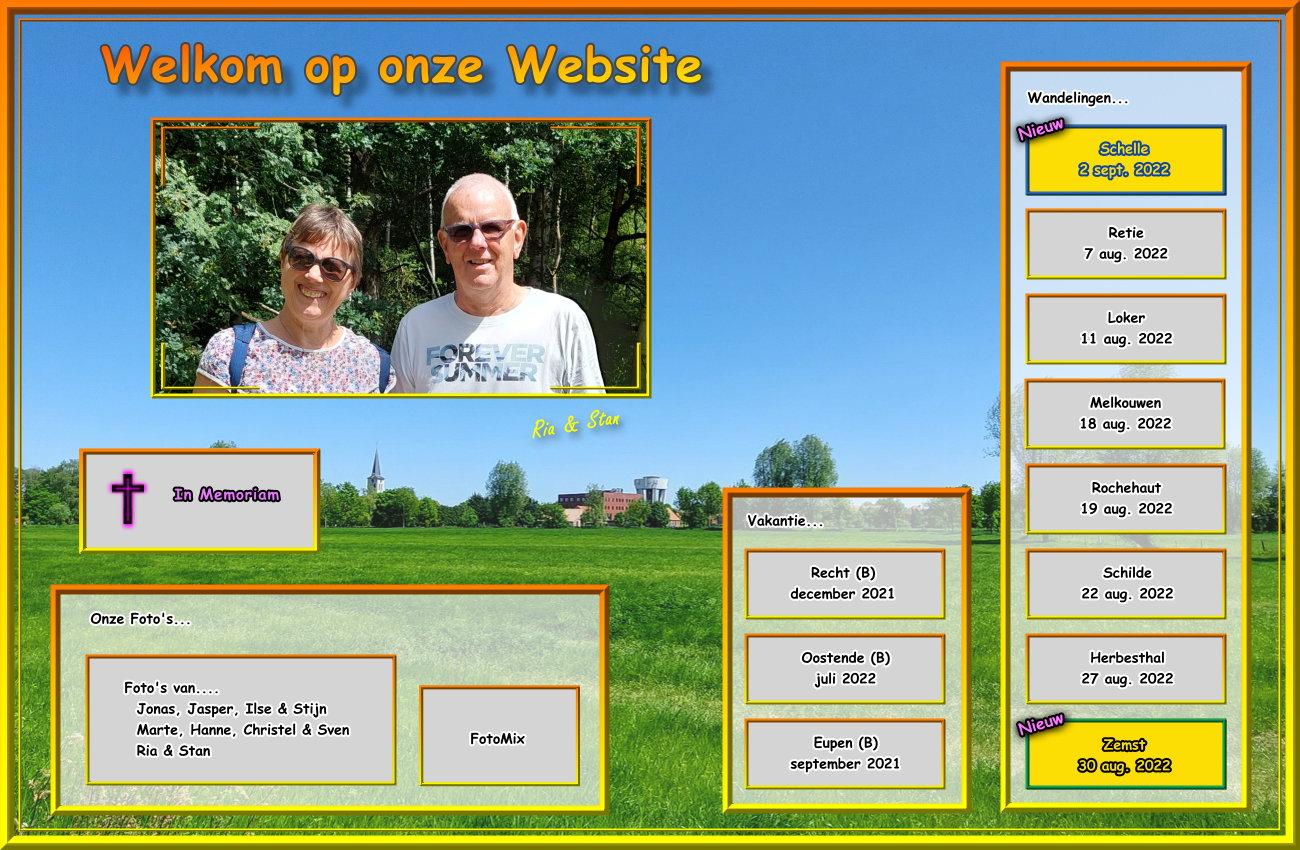
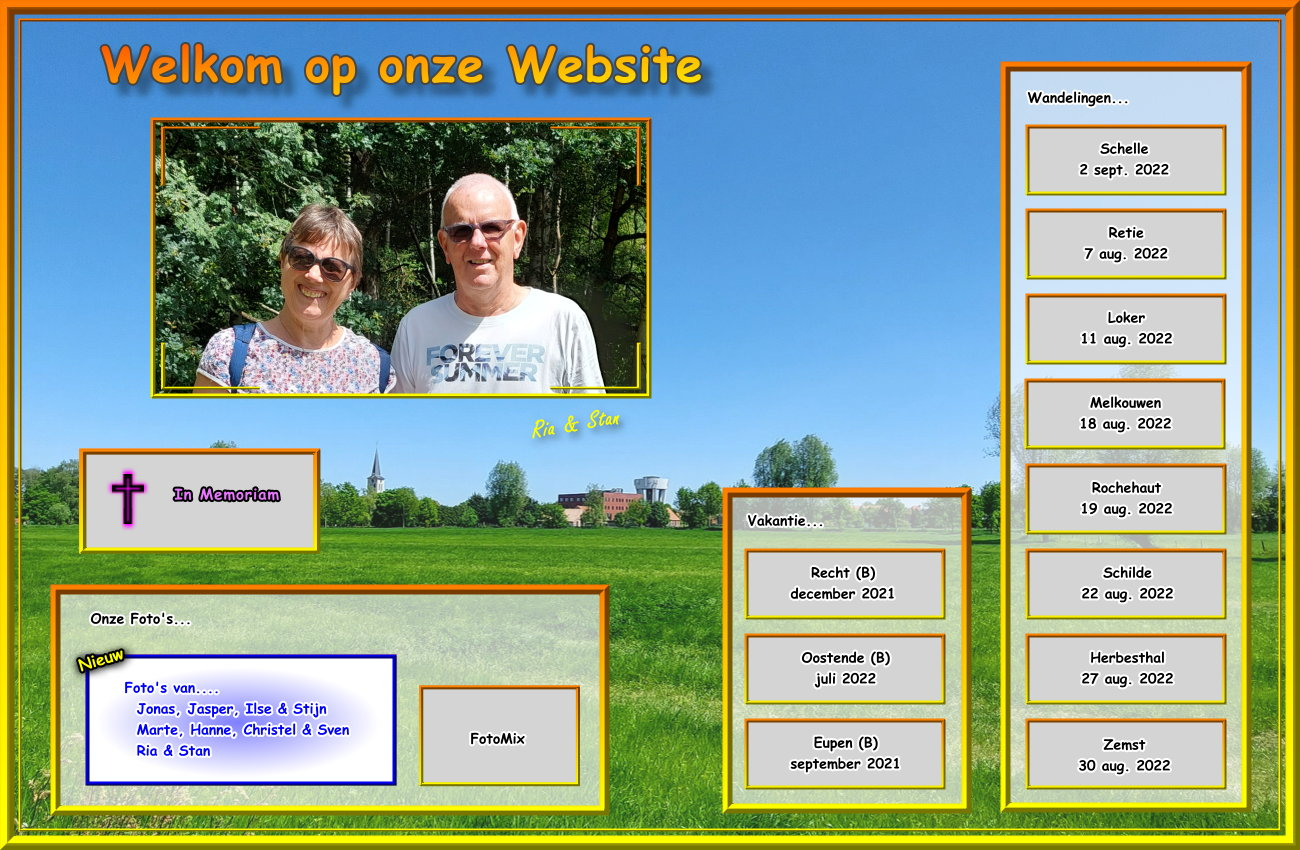
zee foto 190

Changed region(s): [[0.0308, 0.7647, 0.3077, 0.9482], [0.7692, 0.8259, 0.9538, 0.9482], [0.7692, 0.1224, 0.9538, 0.2447]]

diff --git a/_vti_cnf/familiefotos.htm b/_vti_cnf/familiefotos.htm
@@ -1,18 +1,18 @@
 vti_encoding:SR|utf8-nl
 vti_author:SR|PCKE\\Stan Claes
 vti_modifiedby:SR|PC-Home\\Stan
-vti_timelastmodified:TR|01 Jul 2022 07:34:53 -0000
+vti_timelastmodified:TR|13 Sep 2022 14:01:45 -0000
 vti_timecreated:TR|26 Dec 2007 19:02:56 -0000
 vti_title:SR|Familiefoto's
 vti_extenderversion:SR|6.0.2.5516
 vti_backlinkinfo:VX|familiefotos.htm claes-bollen.htm index.htm claes-faes.htm bernaerts-claes.htm fotomix.htm denis-claes.htm kerst.htm familiefotos_extra.htm keukenhof.htm ballon.htm
-vti_nexttolasttimemodified:TW|17 Apr 2022 08:14:12 -0000
-vti_cacheddtm:TX|01 Jul 2022 07:34:53 -0000
-vti_filesize:IR|8844
+vti_nexttolasttimemodified:TW|01 Jul 2022 07:34:53 -0000
+vti_cacheddtm:TX|13 Sep 2022 14:01:45 -0000
+vti_filesize:IR|8931
 vti_cachedtitle:SR|Familiefoto's
 vti_cachedbodystyle:SR|<body background="Fotomap/familiefotos/familiefotos_back.jpg" style="background-attachment: fixed" leftmargin="50" rightmargin="50">
-vti_cachedlinkinfo:VX|S|Fotomap/familiefotos/familiefotos_back.jpg H|index.htm H|fotomix.htm S|Fotomap/familiefotos/familiefotos_titel.png S|Fotomap/familiefotos/star.png S|Fotomap/familiefotos/ff_189.jpg S|Fotomap/familiefotos/star.png S|Fotomap/familiefotos/ff_188.jpg S|Fotomap/familiefotos/ff_187.jpg S|Fotomap/familiefotos/ff_186.jpg S|Fotomap/familiefotos/ff_185.jpg S|Fotomap/familiefotos/ff_184.jpg S|Fotomap/familiefotos/ff_183.jpg S|Fotomap/familiefotos/ff_182.jpg S|Fotomap/familiefotos/ff_181.jpg S|Fotomap/familiefotos/ff_180.jpg S|Fotomap/familiefotos/ff_179.jpg S|Fotomap/familiefotos/ff_178.jpg S|Fotomap/familiefotos/ff_177.jpg S|Fotomap/familiefotos/ff_176.gif S|Fotomap/familiefotos/ff_175.jpg S|Fotomap/familiefotos/ff_174.jpg S|Fotomap/familiefotos/ff_173.jpg S|Fotomap/familiefotos/ff_172.jpg S|Fotomap/familiefotos/ff_171.jpg S|Fotomap/familiefotos/ff_169.jpg S|Fotomap/familiefotos/ff_170.jpg S|Fotomap/familiefotos/ff_168.jpg S|Fotomap/familiefotos/ff_167.jpg S|Fotomap/familiefotos/ff_166.jpg S|Fotomap/familiefotos/ff_165.jpg S|Fotomap/familiefotos/ff_164.jpg S|Fotomap/familiefotos/ff_163.jpg S|Fotomap/familiefotos/ff_162.jpg S|Fotomap/familiefotos/ff_161.jpg S|Fotomap/familiefotos/ff_160.jpg S|Fotomap/familiefotos/ff_159.jpg S|Fotomap/familiefotos/ff_158.jpg S|Fotomap/familiefotos/ff_157.jpg S|Fotomap/familiefotos/ff_156.jpg S|Fotomap/familiefotos/ff_155.jpg S|Fotomap/familiefotos/ff_154.jpg S|Fotomap/familiefotos/ff_153.jpg S|Fotomap/familiefotos/ff_152.jpg S|Fotomap/familiefotos/ff_151.jpg S|Fotomap/familiefotos/ff_149.jpg S|Fotomap/familiefotos/ff_150.jpg S|Fotomap/familiefotos/ff_148.jpg S|Fotomap/familiefotos/ff_146.jpg S|Fotomap/familiefotos/ff_145.jpg S|Fotomap/familiefotos/ff_144.jpg S|Fotomap/familiefotos/ff_147.jpg S|Fotomap/familiefotos/ff_143.jpg S|Fotomap/familiefotos/ff_142.jpg S|Fotomap/familiefotos/ff_141.jpg S|Fotomap/familiefotos/ff_140.jpg S|Fotomap/familiefotos/ff_139.jpg S|Fotomap/familiefotos/ff_138.jpg S|Fotomap/familiefotos/ff_137.jpg S|Fotomap/familiefotos/ff_136.jpg S|Fotomap/familiefotos/ff_135.jpg S|Fotomap/familiefotos/ff_134.jpg S|Fotomap/familiefotos/ff_133.jpg S|Fotomap/familiefotos/ff_132.jpg S|Fotomap/familiefotos/ff_131.jpg S|Fotomap/familiefotos/ff_130.jpg S|Fotomap/familiefotos/ff_129.jpg S|Fotomap/familiefotos/ff_127.jpg S|Fotomap/familiefotos/ff_126.jpg S|Fotomap/familiefotos/ff_125.jpg S|Fotomap/familiefotos/ff_124.jpg S|Fotomap/familiefotos/ff_123.jpg S|Fotomap/familiefotos/ff_122.gif S|Fotomap/familiefotos/ff_121.jpg S|Fotomap/familiefotos/ff_120.jpg S|Fotomap/familiefotos/ff_119.jpg S|Fotomap/familiefotos/ff_118.jpg S|Fotomap/familiefotos/ff_117.jpg S|Fotomap/familiefotos/ff_116.jpg S|Fotomap/familiefotos/ff_115.jpg S|Fotomap/familiefotos/ff_114.jpg S|Fotomap/familiefotos/ff_113.jpg S|Fotomap/familiefotos/ff_112.jpg S|Fotomap/familiefotos/ff_111.jpg S|Fotomap/familiefotos/ff_110.jpg S|Fotomap/familiefotos/ff_109.jpg S|Fotomap/familiefotos/ff_108.jpg S|Fotomap/familiefotos/ff_107.jpg K|familiefotos.htm S|Fotomap/familiefotos/terugbegin.png K|familiefotos.htm
-vti_cachedsvcrellinks:VX|FSUS|Fotomap/familiefotos/familiefotos_back.jpg FHUS|index.htm FHUS|fotomix.htm FSUS|Fotomap/familiefotos/familiefotos_titel.png FSUS|Fotomap/familiefotos/star.png FSUS|Fotomap/familiefotos/ff_189.jpg FSUS|Fotomap/familiefotos/star.png FSUS|Fotomap/familiefotos/ff_188.jpg FSUS|Fotomap/familiefotos/ff_187.jpg FSUS|Fotomap/familiefotos/ff_186.jpg FSUS|Fotomap/familiefotos/ff_185.jpg FSUS|Fotomap/familiefotos/ff_184.jpg FSUS|Fotomap/familiefotos/ff_183.jpg FSUS|Fotomap/familiefotos/ff_182.jpg FSUS|Fotomap/familiefotos/ff_181.jpg FSUS|Fotomap/familiefotos/ff_180.jpg FSUS|Fotomap/familiefotos/ff_179.jpg FSUS|Fotomap/familiefotos/ff_178.jpg FSUS|Fotomap/familiefotos/ff_177.jpg FSUS|Fotomap/familiefotos/ff_176.gif FSUS|Fotomap/familiefotos/ff_175.jpg FSUS|Fotomap/familiefotos/ff_174.jpg FSUS|Fotomap/familiefotos/ff_173.jpg FSUS|Fotomap/familiefotos/ff_172.jpg FSUS|Fotomap/familiefotos/ff_171.jpg FSUS|Fotomap/familiefotos/ff_169.jpg FSUS|Fotomap/familiefotos/ff_170.jpg FSUS|Fotomap/familiefotos/ff_168.jpg FSUS|Fotomap/familiefotos/ff_167.jpg FSUS|Fotomap/familiefotos/ff_166.jpg FSUS|Fotomap/familiefotos/ff_165.jpg FSUS|Fotomap/familiefotos/ff_164.jpg FSUS|Fotomap/familiefotos/ff_163.jpg FSUS|Fotomap/familiefotos/ff_162.jpg FSUS|Fotomap/familiefotos/ff_161.jpg FSUS|Fotomap/familiefotos/ff_160.jpg FSUS|Fotomap/familiefotos/ff_159.jpg FSUS|Fotomap/familiefotos/ff_158.jpg FSUS|Fotomap/familiefotos/ff_157.jpg FSUS|Fotomap/familiefotos/ff_156.jpg FSUS|Fotomap/familiefotos/ff_155.jpg FSUS|Fotomap/familiefotos/ff_154.jpg FSUS|Fotomap/familiefotos/ff_153.jpg FSUS|Fotomap/familiefotos/ff_152.jpg FSUS|Fotomap/familiefotos/ff_151.jpg FSUS|Fotomap/familiefotos/ff_149.jpg FSUS|Fotomap/familiefotos/ff_150.jpg FSUS|Fotomap/familiefotos/ff_148.jpg FSUS|Fotomap/familiefotos/ff_146.jpg FSUS|Fotomap/familiefotos/ff_145.jpg FSUS|Fotomap/familiefotos/ff_144.jpg FSUS|Fotomap/familiefotos/ff_147.jpg FSUS|Fotomap/familiefotos/ff_143.jpg FSUS|Fotomap/familiefotos/ff_142.jpg FSUS|Fotomap/familiefotos/ff_141.jpg FSUS|Fotomap/familiefotos/ff_140.jpg FSUS|Fotomap/familiefotos/ff_139.jpg FSUS|Fotomap/familiefotos/ff_138.jpg FSUS|Fotomap/familiefotos/ff_137.jpg FSUS|Fotomap/familiefotos/ff_136.jpg FSUS|Fotomap/familiefotos/ff_135.jpg FSUS|Fotomap/familiefotos/ff_134.jpg FSUS|Fotomap/familiefotos/ff_133.jpg FSUS|Fotomap/familiefotos/ff_132.jpg FSUS|Fotomap/familiefotos/ff_131.jpg FSUS|Fotomap/familiefotos/ff_130.jpg FSUS|Fotomap/familiefotos/ff_129.jpg FSUS|Fotomap/familiefotos/ff_127.jpg FSUS|Fotomap/familiefotos/ff_126.jpg FSUS|Fotomap/familiefotos/ff_125.jpg FSUS|Fotomap/familiefotos/ff_124.jpg FSUS|Fotomap/familiefotos/ff_123.jpg FSUS|Fotomap/familiefotos/ff_122.gif FSUS|Fotomap/familiefotos/ff_121.jpg FSUS|Fotomap/familiefotos/ff_120.jpg FSUS|Fotomap/familiefotos/ff_119.jpg FSUS|Fotomap/familiefotos/ff_118.jpg FSUS|Fotomap/familiefotos/ff_117.jpg FSUS|Fotomap/familiefotos/ff_116.jpg FSUS|Fotomap/familiefotos/ff_115.jpg FSUS|Fotomap/familiefotos/ff_114.jpg FSUS|Fotomap/familiefotos/ff_113.jpg FSUS|Fotomap/familiefotos/ff_112.jpg FSUS|Fotomap/familiefotos/ff_111.jpg FSUS|Fotomap/familiefotos/ff_110.jpg FSUS|Fotomap/familiefotos/ff_109.jpg FSUS|Fotomap/familiefotos/ff_108.jpg FSUS|Fotomap/familiefotos/ff_107.jpg FKUS|familiefotos.htm FSUS|Fotomap/familiefotos/terugbegin.png FKUS|familiefotos.htm
+vti_cachedlinkinfo:VX|S|Fotomap/familiefotos/familiefotos_back.jpg H|index.htm H|fotomix.htm S|Fotomap/familiefotos/familiefotos_titel.png S|Fotomap/familiefotos/star.png S|Fotomap/familiefotos/ff_190.jpg S|Fotomap/familiefotos/star.png S|Fotomap/familiefotos/ff_189.jpg S|Fotomap/familiefotos/ff_188.jpg S|Fotomap/familiefotos/ff_187.jpg S|Fotomap/familiefotos/ff_186.jpg S|Fotomap/familiefotos/ff_185.jpg S|Fotomap/familiefotos/ff_184.jpg S|Fotomap/familiefotos/ff_183.jpg S|Fotomap/familiefotos/ff_182.jpg S|Fotomap/familiefotos/ff_181.jpg S|Fotomap/familiefotos/ff_180.jpg S|Fotomap/familiefotos/ff_179.jpg S|Fotomap/familiefotos/ff_178.jpg S|Fotomap/familiefotos/ff_177.jpg S|Fotomap/familiefotos/ff_176.gif S|Fotomap/familiefotos/ff_175.jpg S|Fotomap/familiefotos/ff_174.jpg S|Fotomap/familiefotos/ff_173.jpg S|Fotomap/familiefotos/ff_172.jpg S|Fotomap/familiefotos/ff_171.jpg S|Fotomap/familiefotos/ff_169.jpg S|Fotomap/familiefotos/ff_170.jpg S|Fotomap/familiefotos/ff_168.jpg S|Fotomap/familiefotos/ff_167.jpg S|Fotomap/familiefotos/ff_166.jpg S|Fotomap/familiefotos/ff_165.jpg S|Fotomap/familiefotos/ff_164.jpg S|Fotomap/familiefotos/ff_163.jpg S|Fotomap/familiefotos/ff_162.jpg S|Fotomap/familiefotos/ff_161.jpg S|Fotomap/familiefotos/ff_160.jpg S|Fotomap/familiefotos/ff_159.jpg S|Fotomap/familiefotos/ff_158.jpg S|Fotomap/familiefotos/ff_157.jpg S|Fotomap/familiefotos/ff_156.jpg S|Fotomap/familiefotos/ff_155.jpg S|Fotomap/familiefotos/ff_154.jpg S|Fotomap/familiefotos/ff_153.jpg S|Fotomap/familiefotos/ff_152.jpg S|Fotomap/familiefotos/ff_151.jpg S|Fotomap/familiefotos/ff_149.jpg S|Fotomap/familiefotos/ff_150.jpg S|Fotomap/familiefotos/ff_148.jpg S|Fotomap/familiefotos/ff_146.jpg S|Fotomap/familiefotos/ff_145.jpg S|Fotomap/familiefotos/ff_144.jpg S|Fotomap/familiefotos/ff_147.jpg S|Fotomap/familiefotos/ff_143.jpg S|Fotomap/familiefotos/ff_142.jpg S|Fotomap/familiefotos/ff_141.jpg S|Fotomap/familiefotos/ff_140.jpg S|Fotomap/familiefotos/ff_139.jpg S|Fotomap/familiefotos/ff_138.jpg S|Fotomap/familiefotos/ff_137.jpg S|Fotomap/familiefotos/ff_136.jpg S|Fotomap/familiefotos/ff_135.jpg S|Fotomap/familiefotos/ff_134.jpg S|Fotomap/familiefotos/ff_133.jpg S|Fotomap/familiefotos/ff_132.jpg S|Fotomap/familiefotos/ff_131.jpg S|Fotomap/familiefotos/ff_130.jpg S|Fotomap/familiefotos/ff_129.jpg S|Fotomap/familiefotos/ff_127.jpg S|Fotomap/familiefotos/ff_126.jpg S|Fotomap/familiefotos/ff_125.jpg S|Fotomap/familiefotos/ff_124.jpg S|Fotomap/familiefotos/ff_123.jpg S|Fotomap/familiefotos/ff_122.gif S|Fotomap/familiefotos/ff_121.jpg S|Fotomap/familiefotos/ff_120.jpg S|Fotomap/familiefotos/ff_119.jpg S|Fotomap/familiefotos/ff_118.jpg S|Fotomap/familiefotos/ff_117.jpg S|Fotomap/familiefotos/ff_116.jpg S|Fotomap/familiefotos/ff_115.jpg S|Fotomap/familiefotos/ff_114.jpg S|Fotomap/familiefotos/ff_113.jpg S|Fotomap/familiefotos/ff_112.jpg S|Fotomap/familiefotos/ff_111.jpg S|Fotomap/familiefotos/ff_110.jpg S|Fotomap/familiefotos/ff_109.jpg S|Fotomap/familiefotos/ff_108.jpg S|Fotomap/familiefotos/ff_107.jpg K|familiefotos.htm S|Fotomap/familiefotos/terugbegin.png K|familiefotos.htm
+vti_cachedsvcrellinks:VX|FSUS|Fotomap/familiefotos/familiefotos_back.jpg FHUS|index.htm FHUS|fotomix.htm FSUS|Fotomap/familiefotos/familiefotos_titel.png FSUS|Fotomap/familiefotos/star.png FSUS|Fotomap/familiefotos/ff_190.jpg FSUS|Fotomap/familiefotos/star.png FSUS|Fotomap/familiefotos/ff_189.jpg FSUS|Fotomap/familiefotos/ff_188.jpg FSUS|Fotomap/familiefotos/ff_187.jpg FSUS|Fotomap/familiefotos/ff_186.jpg FSUS|Fotomap/familiefotos/ff_185.jpg FSUS|Fotomap/familiefotos/ff_184.jpg FSUS|Fotomap/familiefotos/ff_183.jpg FSUS|Fotomap/familiefotos/ff_182.jpg FSUS|Fotomap/familiefotos/ff_181.jpg FSUS|Fotomap/familiefotos/ff_180.jpg FSUS|Fotomap/familiefotos/ff_179.jpg FSUS|Fotomap/familiefotos/ff_178.jpg FSUS|Fotomap/familiefotos/ff_177.jpg FSUS|Fotomap/familiefotos/ff_176.gif FSUS|Fotomap/familiefotos/ff_175.jpg FSUS|Fotomap/familiefotos/ff_174.jpg FSUS|Fotomap/familiefotos/ff_173.jpg FSUS|Fotomap/familiefotos/ff_172.jpg FSUS|Fotomap/familiefotos/ff_171.jpg FSUS|Fotomap/familiefotos/ff_169.jpg FSUS|Fotomap/familiefotos/ff_170.jpg FSUS|Fotomap/familiefotos/ff_168.jpg FSUS|Fotomap/familiefotos/ff_167.jpg FSUS|Fotomap/familiefotos/ff_166.jpg FSUS|Fotomap/familiefotos/ff_165.jpg FSUS|Fotomap/familiefotos/ff_164.jpg FSUS|Fotomap/familiefotos/ff_163.jpg FSUS|Fotomap/familiefotos/ff_162.jpg FSUS|Fotomap/familiefotos/ff_161.jpg FSUS|Fotomap/familiefotos/ff_160.jpg FSUS|Fotomap/familiefotos/ff_159.jpg FSUS|Fotomap/familiefotos/ff_158.jpg FSUS|Fotomap/familiefotos/ff_157.jpg FSUS|Fotomap/familiefotos/ff_156.jpg FSUS|Fotomap/familiefotos/ff_155.jpg FSUS|Fotomap/familiefotos/ff_154.jpg FSUS|Fotomap/familiefotos/ff_153.jpg FSUS|Fotomap/familiefotos/ff_152.jpg FSUS|Fotomap/familiefotos/ff_151.jpg FSUS|Fotomap/familiefotos/ff_149.jpg FSUS|Fotomap/familiefotos/ff_150.jpg FSUS|Fotomap/familiefotos/ff_148.jpg FSUS|Fotomap/familiefotos/ff_146.jpg FSUS|Fotomap/familiefotos/ff_145.jpg FSUS|Fotomap/familiefotos/ff_144.jpg FSUS|Fotomap/familiefotos/ff_147.jpg FSUS|Fotomap/familiefotos/ff_143.jpg FSUS|Fotomap/familiefotos/ff_142.jpg FSUS|Fotomap/familiefotos/ff_141.jpg FSUS|Fotomap/familiefotos/ff_140.jpg FSUS|Fotomap/familiefotos/ff_139.jpg FSUS|Fotomap/familiefotos/ff_138.jpg FSUS|Fotomap/familiefotos/ff_137.jpg FSUS|Fotomap/familiefotos/ff_136.jpg FSUS|Fotomap/familiefotos/ff_135.jpg FSUS|Fotomap/familiefotos/ff_134.jpg FSUS|Fotomap/familiefotos/ff_133.jpg FSUS|Fotomap/familiefotos/ff_132.jpg FSUS|Fotomap/familiefotos/ff_131.jpg FSUS|Fotomap/familiefotos/ff_130.jpg FSUS|Fotomap/familiefotos/ff_129.jpg FSUS|Fotomap/familiefotos/ff_127.jpg FSUS|Fotomap/familiefotos/ff_126.jpg FSUS|Fotomap/familiefotos/ff_125.jpg FSUS|Fotomap/familiefotos/ff_124.jpg FSUS|Fotomap/familiefotos/ff_123.jpg FSUS|Fotomap/familiefotos/ff_122.gif FSUS|Fotomap/familiefotos/ff_121.jpg FSUS|Fotomap/familiefotos/ff_120.jpg FSUS|Fotomap/familiefotos/ff_119.jpg FSUS|Fotomap/familiefotos/ff_118.jpg FSUS|Fotomap/familiefotos/ff_117.jpg FSUS|Fotomap/familiefotos/ff_116.jpg FSUS|Fotomap/familiefotos/ff_115.jpg FSUS|Fotomap/familiefotos/ff_114.jpg FSUS|Fotomap/familiefotos/ff_113.jpg FSUS|Fotomap/familiefotos/ff_112.jpg FSUS|Fotomap/familiefotos/ff_111.jpg FSUS|Fotomap/familiefotos/ff_110.jpg FSUS|Fotomap/familiefotos/ff_109.jpg FSUS|Fotomap/familiefotos/ff_108.jpg FSUS|Fotomap/familiefotos/ff_107.jpg FKUS|familiefotos.htm FSUS|Fotomap/familiefotos/terugbegin.png FKUS|familiefotos.htm
 vti_cachedneedsrewrite:BR|false
 vti_cachedhasbots:BR|false
 vti_cachedhastheme:BR|false

diff --git a/_vti_cnf/index.htm b/_vti_cnf/index.htm
@@ -1,13 +1,13 @@
 vti_encoding:SR|utf8-nl
-vti_timelastmodified:TR|02 Sep 2022 16:21:50 -0000
+vti_timelastmodified:TR|13 Sep 2022 14:01:57 -0000
 vti_extenderversion:SR|6.0.2.5516
 vti_author:SR|PC-Home\\Stan
 vti_modifiedby:SR|PC-Home\\Stan
 vti_timecreated:TR|12 Dec 2015 14:26:20 -0000
 vti_title:SR|Welkom op onze website
 vti_backlinkinfo:VX|claes-bollen.htm familiefotos.htm denis.htm gildeclowns.htm fotomix.htm claes-faes.htm Polaroid_map2/fortb.htm fotoboek.htm vakantie_map4.htm in_memoriam.htm vakantie_map3.htm sneeuw.htm denis-claes.htm keukenhof.htm vakantie_map1.htm vakantie_map2.htm familiefotos_extra.htm ballon.htm wandeling_map7.htm kerstwensen.htm Polaroid_map1/paasfeest.htm wandeling_map8.htm index.htm wandeling_map5.htm wandeling_map6.htm fortb/fortb.htm ilse-stijn-extra.htm hanne5.htm bernaerts-claes.htm wandeling_map3.htm wandeling_map4.htm kerstmis.htm kerst.htm wandeling_map1.htm wandeling_map2.htm rs_info.htm
-vti_nexttolasttimemodified:TW|01 Sep 2022 08:01:25 -0000
-vti_cacheddtm:TX|02 Sep 2022 16:21:50 -0000
+vti_nexttolasttimemodified:TW|02 Sep 2022 16:21:50 -0000
+vti_cacheddtm:TX|13 Sep 2022 14:01:57 -0000
 vti_filesize:IR|2487
 vti_cachedtitle:SR|Welkom op onze website
 vti_cachedbodystyle:SR|<body style="background-attachment: fixed" background="index_back.jpg" leftmargin="100" rightmargin="100">

diff --git a/familiefotos.htm b/familiefotos.htm
@@ -47,7 +47,7 @@ text-decoration: none;
 <p align="center">
 &nbsp;<p align="center">
 <img border="0" src="Fotomap/familiefotos/star.png" width="31" height="38">&nbsp;&nbsp;
-<img border="0" src="Fotomap/familiefotos/ff_189.jpg" width="360" height="520">&nbsp;&nbsp;
+<img border="0" src="Fotomap/familiefotos/ff_190.jpg" width="540" height="445">&nbsp;&nbsp;
 <img border="0" src="Fotomap/familiefotos/star.png" width="31" height="38"></p>
 
 <p align="center">
@@ -57,6 +57,7 @@ text-decoration: none;
 <hr color="#FFFFFF">
 
 <p align="center">
+<img border="0" src="Fotomap/familiefotos/ff_189.jpg" width="360" height="520">&nbsp;
 <img border="0" src="Fotomap/familiefotos/ff_188.jpg" width="540" height="445">&nbsp;
 <img border="0" src="Fotomap/familiefotos/ff_187.jpg" width="360" height="520">&nbsp;
 <img border="0" src="Fotomap/familiefotos/ff_186.jpg" width="360" height="520">&nbsp;

diff --git a/index.htm b/index.htm
@@ -40,7 +40,7 @@
 <font color="#FFFFFF">CCF 2022
 <img border="0" src="blanco.png" width="450" height="10"> 
 Laatste Update:&nbsp;
-<!--webbot bot="Timestamp" S-Type="EDITED" S-Format="%d %B %Y" startspan -->02 september 2022<!--webbot bot="Timestamp" i-checksum="40003" endspan --></font></b></p>
+<!--webbot bot="Timestamp" S-Type="EDITED" S-Format="%d %B %Y" startspan -->13 september 2022<!--webbot bot="Timestamp" i-checksum="40006" endspan --></font></b></p>
 
 </body>
 
